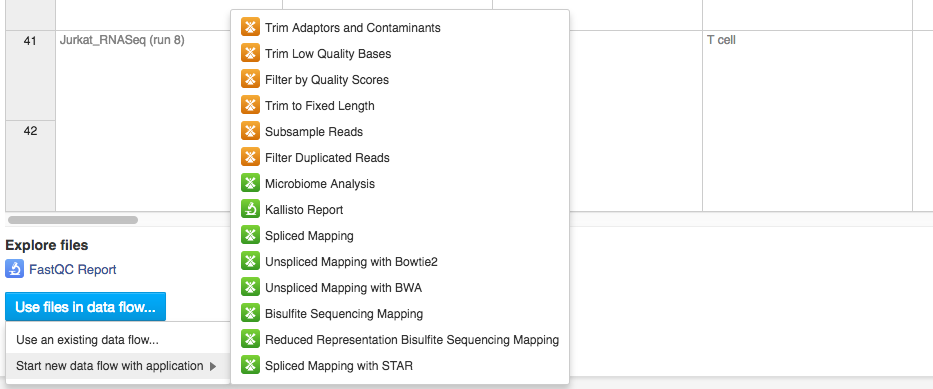
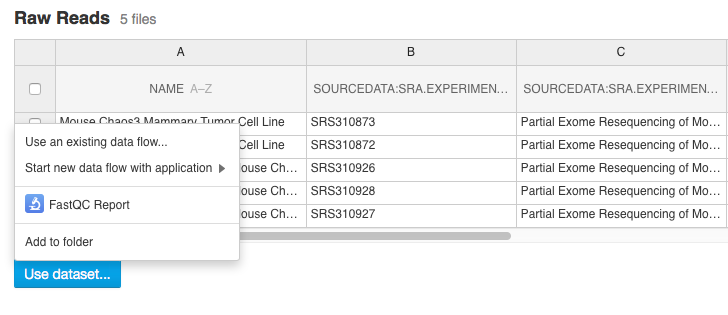
edit Data browser section

Changed region(s): [[0.0, 0.0, 1.0, 1.0], [0.0302, 0.4286, 0.2115, 0.4857], [0.0302, 0.2571, 0.0604, 0.2857]]

diff --git a/source/guide/using-genestack-browse-data_include.rst b/source/guide/using-genestack-browse-data_include.rst
@@ -5,57 +5,46 @@ Efficient data search and browsing are at the core of Genestack. The
 platform provides rapid access to private, shared, and public data
 and analysis results.
 
-Experiment browser
-~~~~~~~~~~~~~~~~~~
+Data browser
+~~~~~~~~~~~~
 
-Genestack Platform provides a rich collection of public experiments from SRA, ENA, GEO
+Genestack Platform provides a rich collection of public datasets from SRA, ENA, GEO
 and ArrayExpress. Data is synchronized regularly from these databases, keeping
 things up-to-date. There are currently more than 3 million sequencing and microarray assays from over
-100,000 public experiments indexed in Genestack.
+100,000 public datasets indexed in Genestack.
 
-The Experiment Browser allows to browse these public datasets, as well as your private
-experiments or the ones shared with you on Genestack. You can access the Experiment
-Browser either from the **Dashboard** or the **Shortcuts Menu** on the left-hand side.
+The Data Browser allows to browse these public datasets, as well as your private
+data and the data shared with you on Genestack. You can access the Data
+Browser either from the **Dashboard** or the **Shortcuts menu** on the left-hand side.
 
 You can search relevant data with **a free-text query**, and you can further
-filter down experiments by **metadata attributes** using the checkboxes
-on the left. These attributes are generated based on the metadata available for experiments.
+filter down datasets by **metadata attributes** using the checkboxes
+on the left. These attributes are generated based on the metadata available for datasets.
 For instance, you can set the filters "Access", "Method"
-and "Organism" to "Public", "Whole Genome Sequencing", "Mus musculus", respectively,
-to filter out publicly accessible data on mice obtained from mouse RNA-Seq data.
+and "Organism" to "Public", "Whole Exome Sequencing", "Mus musculus", respectively,
+to filter out publicly accessible data on mice obtained from mouse WES data.
 
-.. image:: images/experiment-browser.png
+.. image:: images/data-browser.png
 
-Click **Save N matching assays** link to explore
-the list of matching assays and save them into one folder.
-
-.. image:: images/save-matching-assays.png
-
-Moreover, Experiment Browser allows you to find bioinformatics analyses results
-associated with raw data. If there are analysis performed on a given experiment,
+Data Browser allows you to find bioinformatics analyses results
+associated with raw data. If there are analysis performed on a given dataset,
 and you have access to these results (i.e. they are yours, or they are shared with you),
-then under the experiment name you will see a **View N analysis results** link.
-Clicking it shows you the list of existing resulting files such as, for example, QC reports
-or Genome Browser pages.
+then you will find both intermediate results and reports in the column **Downstream**.
 
 .. image:: images/analysis-results.png
 
-Clicking on the name of any of the experiments will take you to
+Clicking on the name of any of the datasets will take you to
 the **Metainfo editor**, where you can view (and possibly edit) the metadata of this
-experiment and its assays.
+dataset and its assays.
 
 .. image:: images/metainfo-editor.png
 
-Besides that, on the Metainfo Editor page you can run the assays through a pipeline via the button
-**Start new data flow with application**. You can either use an existing data flow matching the assays, or build a
+Besides that, on the Metainfo editor page you can run the assays through a pipeline via the button
+**Use dataset...**. You can either use an existing data flow matching the assays, or build a
 new pipeline step by step.
 
 .. image:: images/new-df.png
 
-From the Metainfo Editor, you can also open the experiment in the **File Manager** by clicking on
-the experiment's name at the top of the page and selecting **Explore > File Manager**.
-
-.. image:: images/from-ME-to-FB.png
 
 File manager
 ~~~~~~~~~~~~
